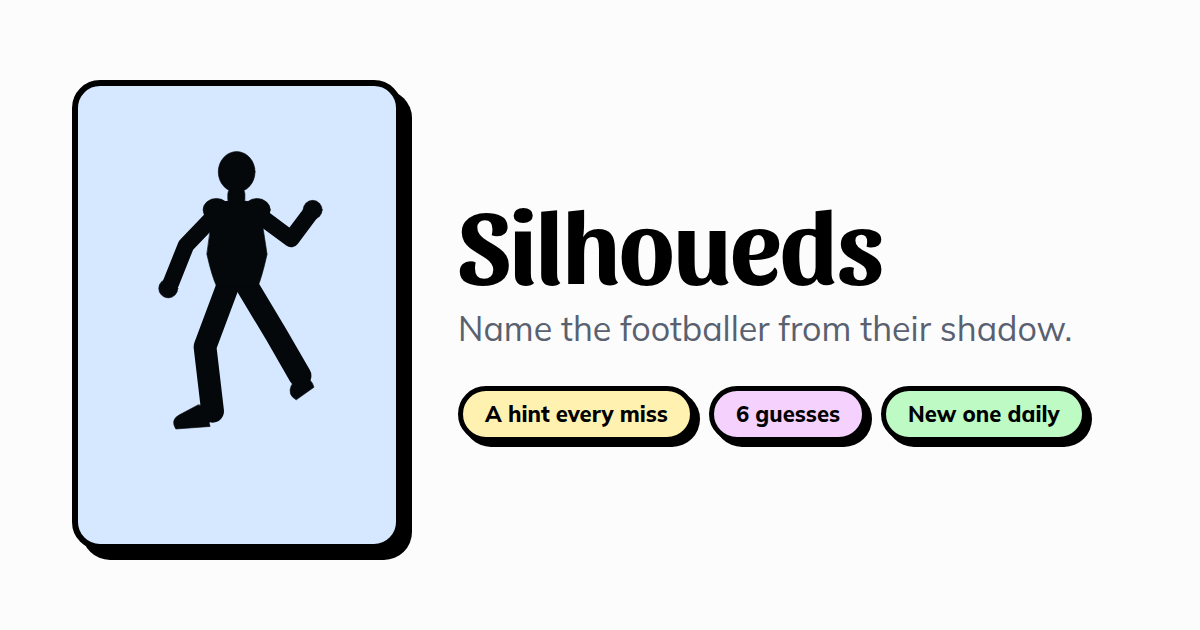
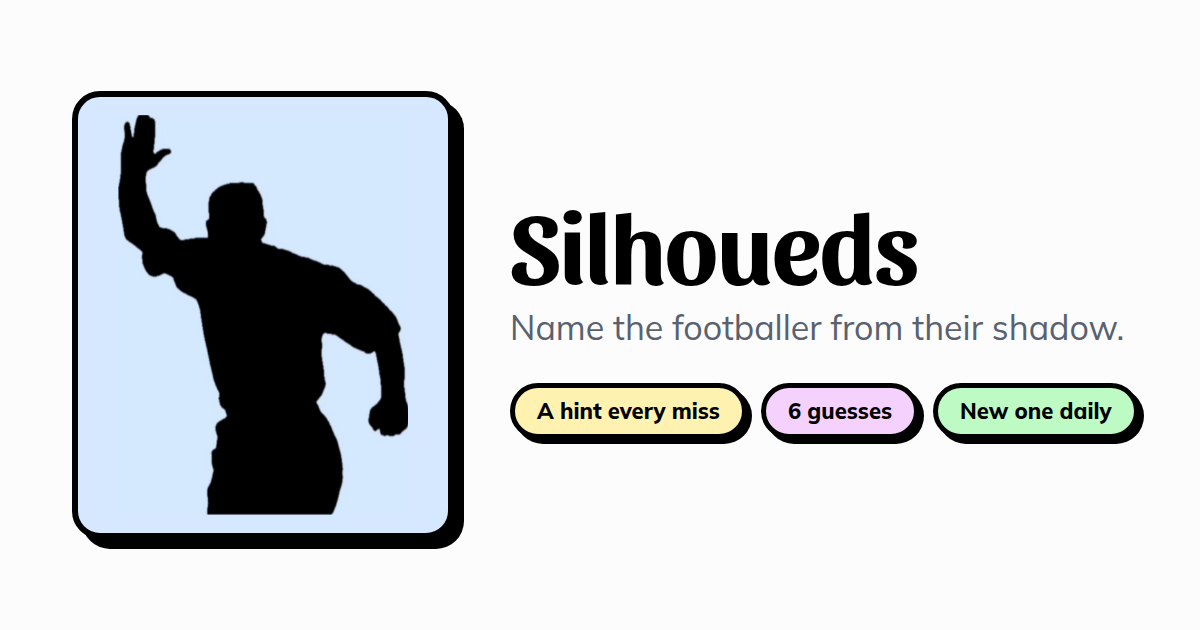
Use a square image for link previews
Sharing the link in WhatsApp showed a sliver of the preview card. The image
was there and loading — it was 1200x630, and WhatsApp crops og:image to a
square, so all that survived was a narrow strip of the middle.

og:image is now preview-square.png at 1200x1200, with the silhouette large
enough to read at thumbnail size. WhatsApp, iMessage and Slack all take
og:image and all crop square. twitter:image keeps the 1200x630 card, which
is what the wide Twitter/X format wants.

Adds tools/make-preview.mjs, which renders both from the same source artwork
using the silhouette detection already written for the icons, so the two
never drift apart. Like the icon tool it needs Playwright via npx and is not
a project dependency; the PNGs are committed.

Claude-Session: https://claude.ai/code/session_01B8atRtTE349sryySksRgfX

Changed region(s): [[0.0617, 0.1206, 0.9558, 0.9048]]

diff --git a/public/index.html b/public/index.html
@@ -16,9 +16,12 @@
   <meta property="og:title" content="Silhoueds — name the footballer from their shadow">
   <meta property="og:description" content="One footballer a day, in silhouette. Six guesses, and a new hint every time you miss.">
   <meta property="og:url" content="%PUBLIC_URL%/">
-  <meta property="og:image" content="%PUBLIC_URL%/preview.png">
+  <!-- Square, because WhatsApp, iMessage and Slack crop og:image to 1:1 — a landscape card
+       loses everything but a sliver of its middle. Twitter gets the wide one below. -->
+  <meta property="og:image" content="%PUBLIC_URL%/preview-square.png">
   <meta property="og:image:width" content="1200">
-  <meta property="og:image:height" content="630">
+  <meta property="og:image:height" content="1200">
+  <meta property="og:image:alt" content="Silhoueds — name the footballer from their shadow">
   <meta name="twitter:card" content="summary_large_image">
   <meta name="twitter:title" content="Silhoueds — name the footballer from their shadow">
   <meta name="twitter:description" content="One footballer a day, in silhouette. Six guesses, and a new hint every time you miss.">

diff --git a/README.md b/README.md
@@ -99,6 +99,11 @@ Hard mode is unaffected: its photo is never sent early.
 - **Sharing** — the button opens the phone's own share sheet where there is one (iOS, Android,
   most desktop browsers), falling back to the clipboard. The link is passed separately from the
   grid so it doesn't appear twice in the message.
+- **Link previews** — two images, because platforms crop differently. `og:image` is
+  `preview-square.png` (1200×1200), since WhatsApp, iMessage and Slack crop to a square and a
+  landscape card is reduced to a sliver of its middle. `twitter:image` stays
+  `preview.png` (1200×630) for the wide card. Regenerate both with
+  `node tools/make-preview.mjs`.
 - **Installable** — a web manifest and an `apple-touch-icon`, so the game can be added to the
   Home Screen and opens without browser chrome. Icons are committed; regenerate them with
   `node tools/make-icons.mjs --source assets/icon-source.jpg`, which needs Playwright via `npx`
